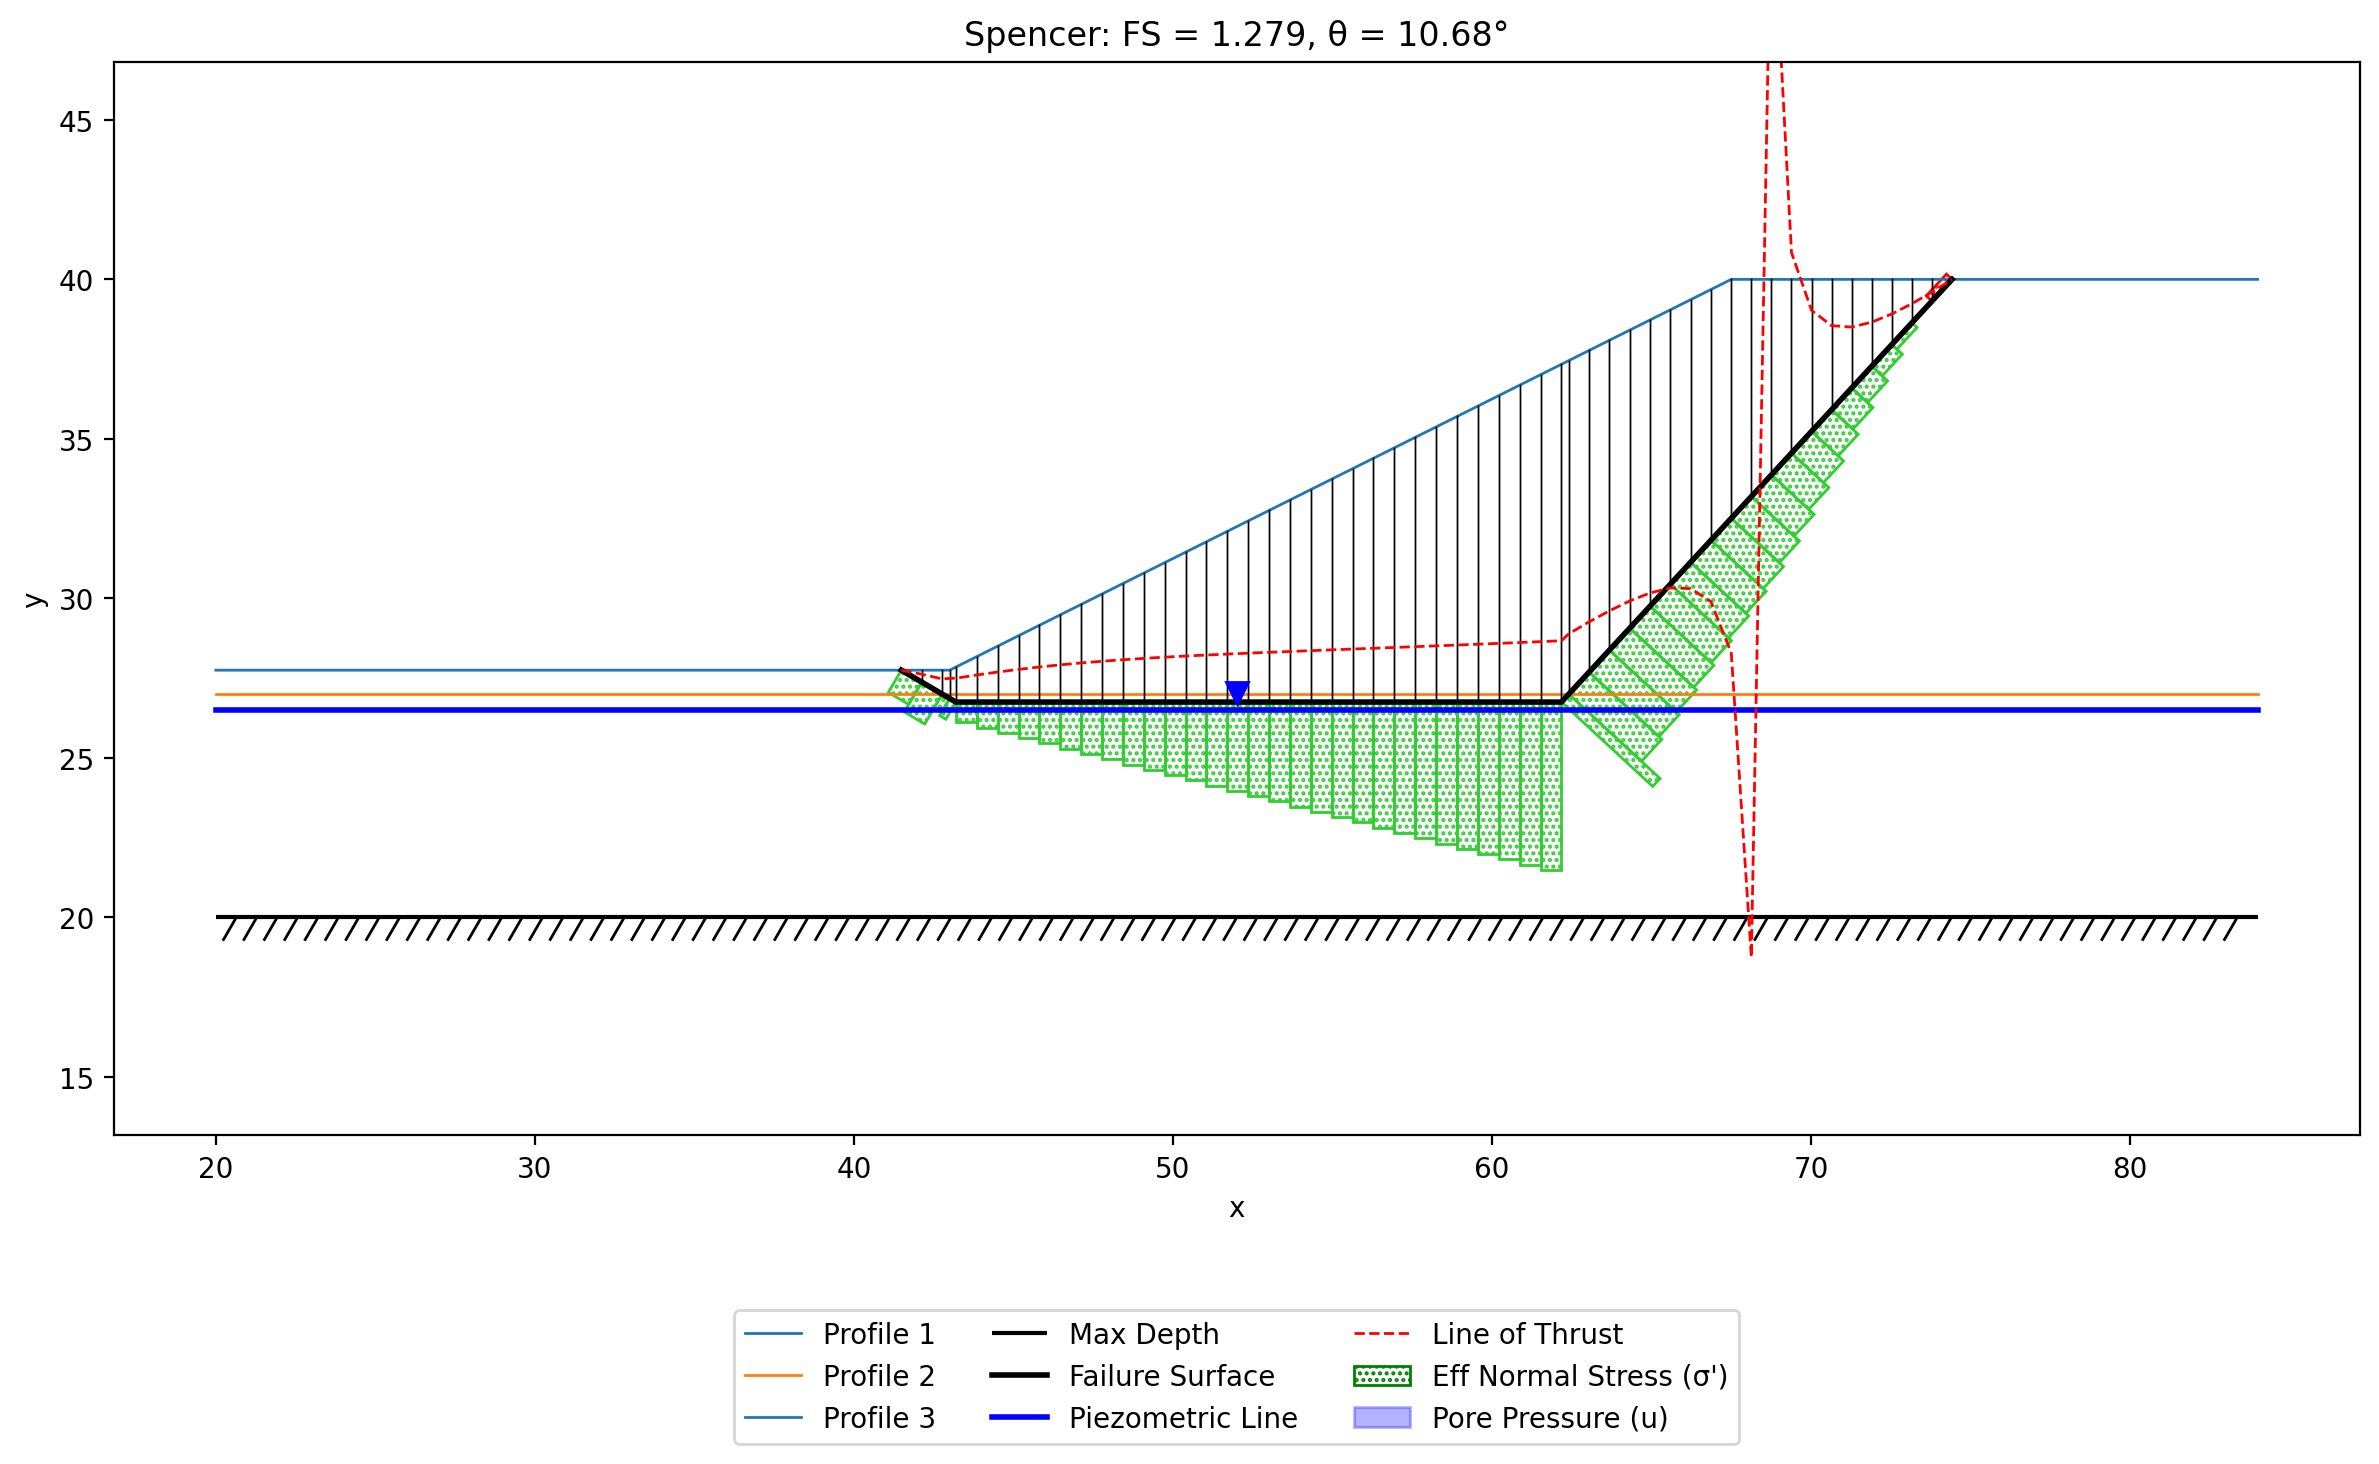
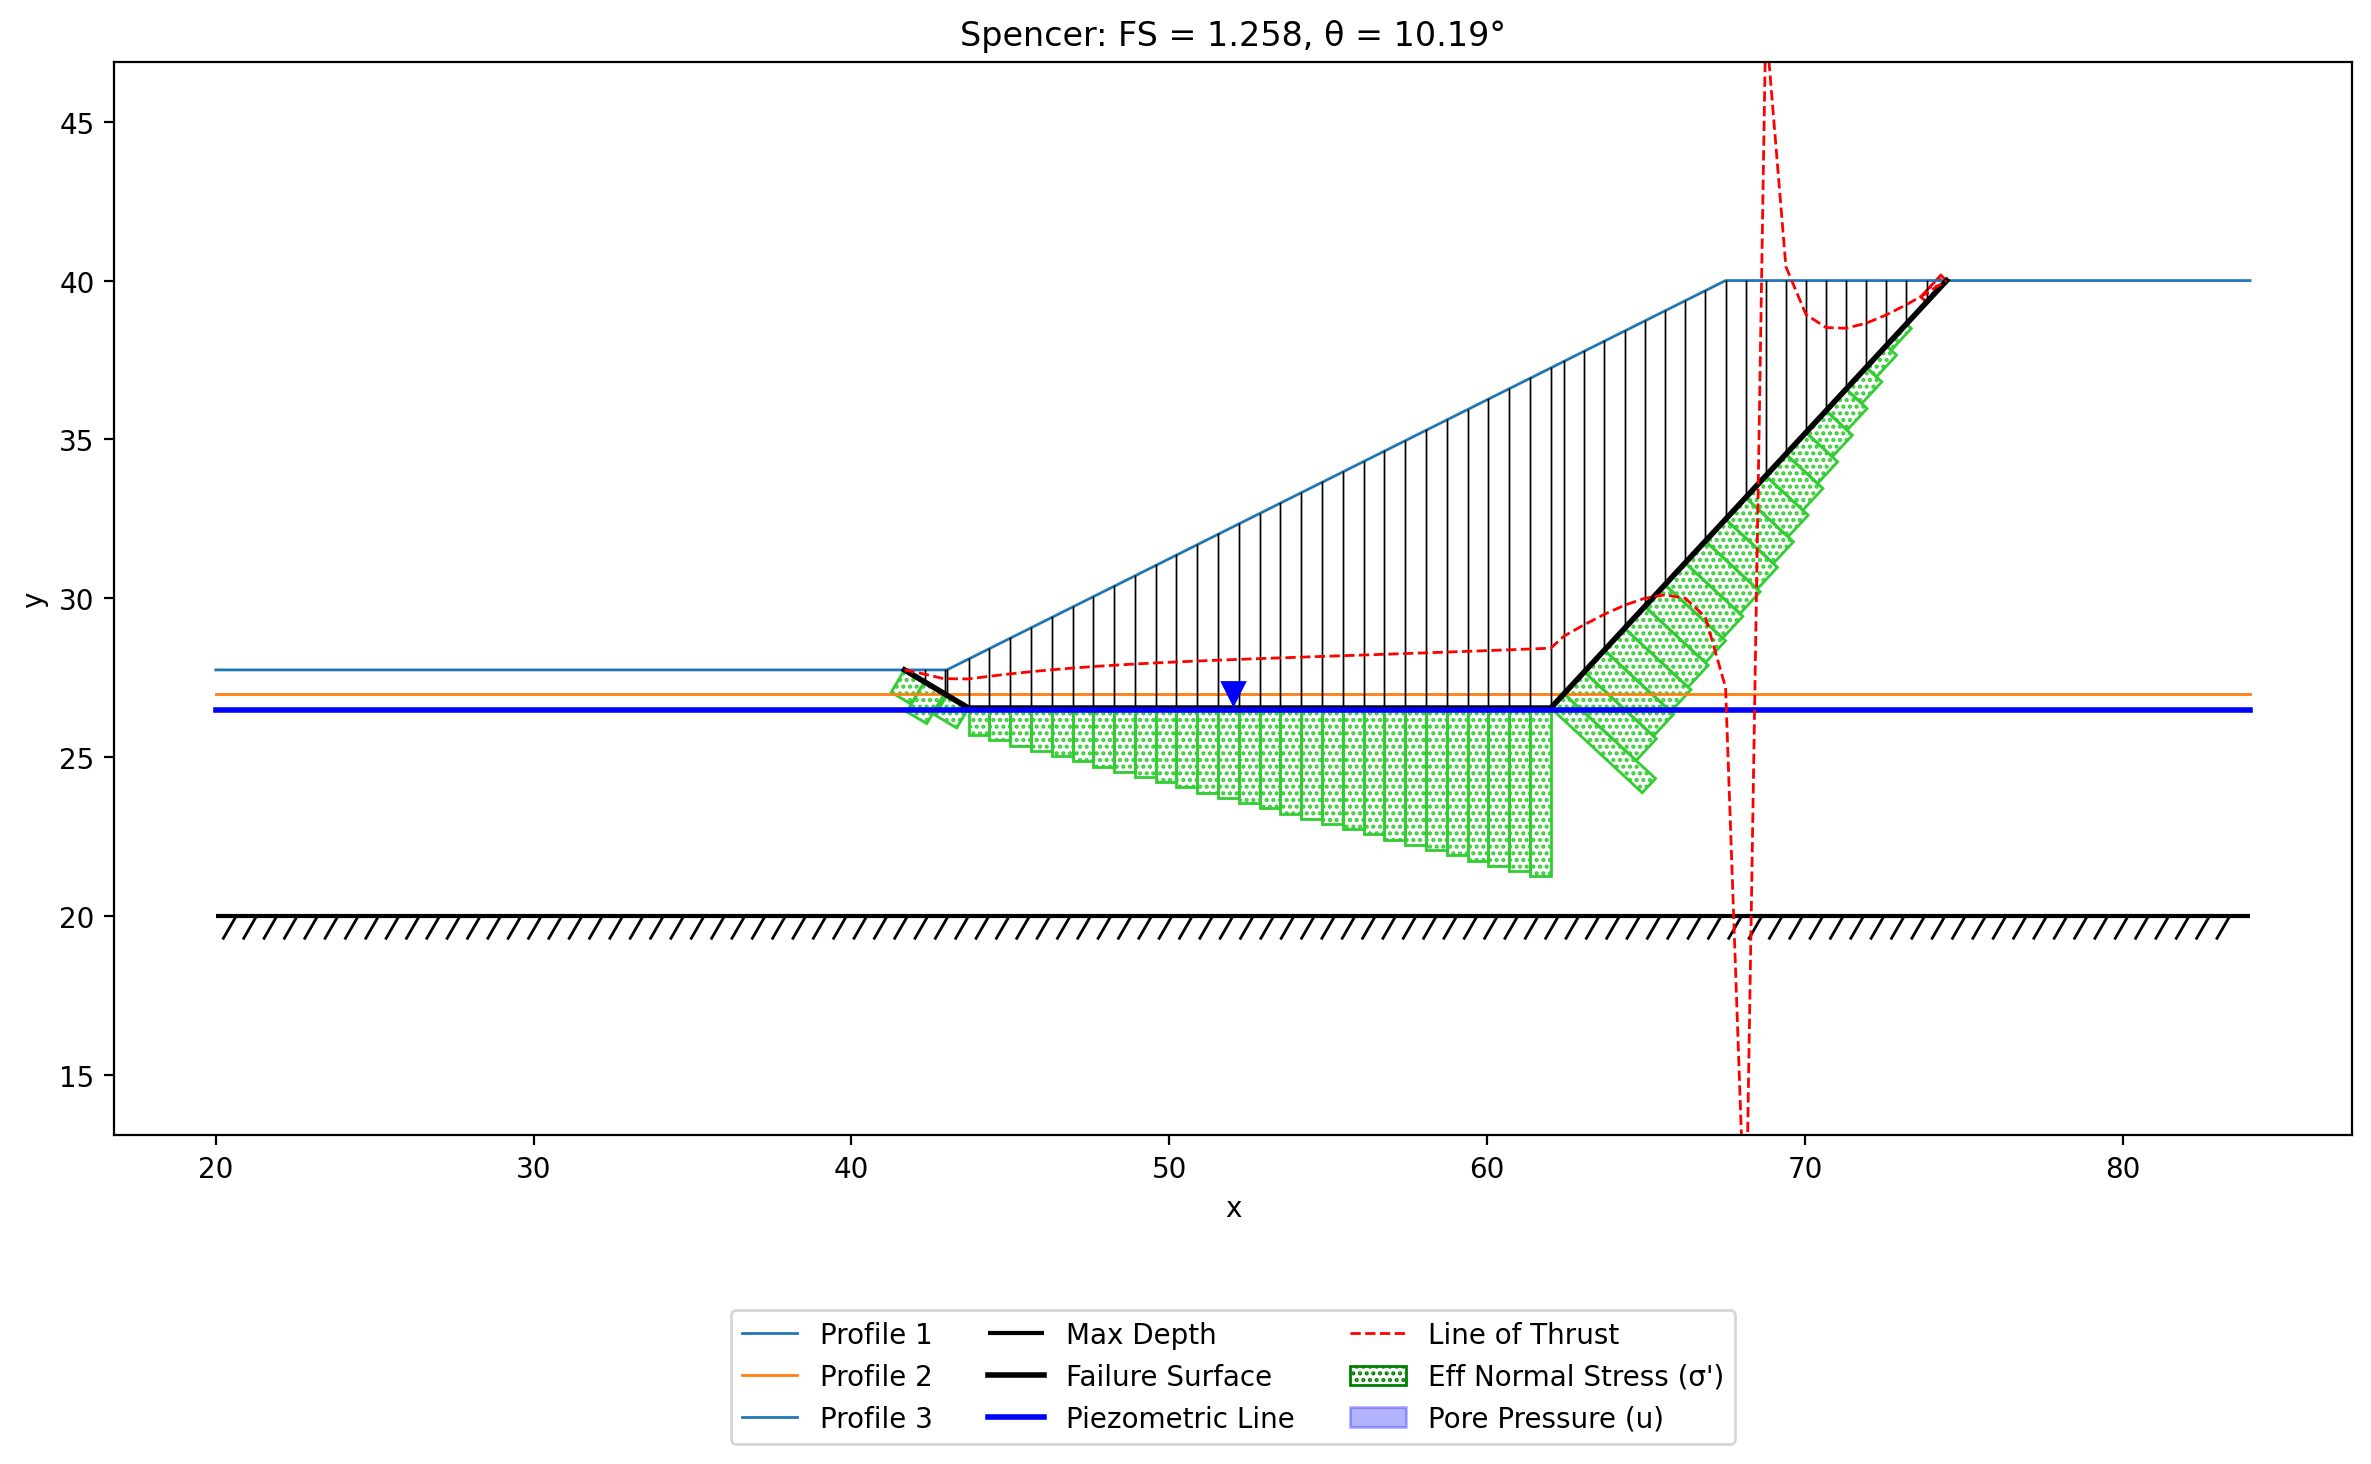
Seed ACADS weak-layer slip at base of layer (FOS 1.279 -> 1.258)
The non-circular search moves 'Horiz' points horizontally only, so the seed
elevation of the two interior points is the sliding plane and is never
optimized. The benchmark seeded them at the layer center (y=26.75), which
biased the factor of safety ~1.5% high. Placing the slip just above the base
of the weak layer (y=26.55) is standard practice for a weak interlayer and
matches the ACADS/SLOPE/W reference.

New non-circular results (ref ~1.26): Spencer 1.258 (was 1.279, now within
0.3% of SLOPE/W's 1.261), Janbu 1.278, Lowe 1.249, Corps 1.336. Updated
build_lem.py, regenerated the input xlsx and figures, refreshed the per-method
tables/tags in samples.md, verification.md, and benchmark-run-plan.md, and
added a y-sweep diagnostic (exp_weak_layer_y.py).

diff --git a/benchmarks/exp_weak_layer_y.py b/benchmarks/exp_weak_layer_y.py
@@ -1,0 +1,52 @@
+"""Experiment: sensitivity of the ACADS weak-layer non-circular FOS to the
+starting elevation (y) of the two 'Horiz' sliding-plane points.
+
+The non-circular search moves 'Horiz' points horizontally only (dy=0), so the
+y we seed them at is locked in for the whole search. The weak layer spans
+y=26.5 (base) to y=27.0 (top). Default seed is y=26.75 (center).
+
+Run from repo root:  PYTHONPATH=. python3 benchmarks/exp_weak_layer_y.py
+"""
+import io
+import contextlib
+
+from xslope.fileio import load_slope_data
+from xslope.search import noncircular_search
+
+FILE = "docs/lem/files/xslope_acads_weak_layer.xlsx"
+METHOD = "spencer"
+
+# Sweep sliding-plane elevation from base of weak layer up to top.
+Y_VALUES = [26.50, 26.55, 26.60, 26.65, 26.70, 26.75, 26.80, 26.90, 27.00]
+
+
+def run_at_y(y_slide):
+    slope_data = load_slope_data(FILE)
+    # Override y for the two interior 'Horiz' points; leave Free endpoints alone.
+    for p in slope_data['non_circ']:
+        if p['Movement'] == 'Horiz':
+            p['Y'] = y_slide
+    buf = io.StringIO()
+    with contextlib.redirect_stdout(buf):
+        fs_cache, converged, _ = noncircular_search(
+            slope_data, METHOD, num_slices=50, diagnostic=False)
+    if fs_cache:
+        res = fs_cache[0].get("solver_result")
+        fs = res.get("FS") if isinstance(res, dict) else None
+        # recover the converged surface x-coords of the horiz points
+        return fs, converged
+    return None, converged
+
+
+def main():
+    print(f"ACADS Weak Layer — {METHOD} FOS vs. starting sliding-plane y")
+    print(f"weak layer: base y=26.5, top y=27.0 ; ref FOS = 1.26\n")
+    print(f"  {'y_start':>8} {'FOS':>8} {'converged':>10}")
+    for y in Y_VALUES:
+        fs, conv = run_at_y(y)
+        fs_s = f"{fs:.4f}" if fs is not None else "--"
+        print(f"  {y:>8.2f} {fs_s:>8} {str(conv):>10}")
+
+
+if __name__ == "__main__":
+    main()

diff --git a/benchmarks/build_lem.py b/benchmarks/build_lem.py
@@ -64,11 +64,15 @@ def build_acads_weak_layer():
     prof.update(profile_line_cells(3, 1, [(20, 26.5), (84, 26.5)]))   # base of weak layer
     u['profile'] = prof
     u['piezo'] = piezo_cells([(20, 26.5), (84, 26.5)])  # at base of weak layer
-    # Non-circular block: exit at toe bench, slide along weak layer (y~26.75), back scarp to crest
+    # Non-circular block: exit at toe bench, slide along weak layer (y~26.55), back scarp to crest.
+    # The 'Horiz' points are seeded just above the base of the weak layer (base y=26.5,
+    # top y=27.0): the search only moves them horizontally, so this seed elevation is the
+    # sliding plane. Placing the slip near the base of a weak layer is standard practice and
+    # matches the ACADS/SLOPE/W reference (FOS ~1.26); the layer-center seed reads ~1.5% high.
     u['non-circ'] = noncirc_cells([
         (38, 27.75, "Free"),    # exit on bench near toe
-        (44, 26.75, "Horiz"),   # toe-side, in weak layer
-        (66, 26.75, "Horiz"),   # crest-side, in weak layer
+        (44, 26.55, "Horiz"),   # toe-side, near base of weak layer
+        (66, 26.55, "Horiz"),   # crest-side, near base of weak layer
         (75, 40.0, "Free"),     # entry on crest
     ])
     write_cells_to_xlsx(dst, {k: v for k, v in u.items() if v})

diff --git a/docs/lem/samples.md b/docs/lem/samples.md
@@ -642,14 +642,20 @@ Results for the methods applicable to non-circular surfaces:
 
 | Method | XSLOPE FOS | Reference | Diff |
 |---|---|---|---|
-| Spencer | 1.279 | ~1.26 | +1.5% |
-| Corps of Engineers | 1.355 | ~1.26 | +7.6% |
-| Lowe & Karafiath | 1.268 | ~1.26 | +0.6% |
-| Simplified Janbu | 1.297 | ~1.26 | +2.9% |
+| Spencer | 1.258 | ~1.26 | −0.2% |
+| Corps of Engineers | 1.336 | ~1.26 | +6.0% |
+| Lowe & Karafiath | 1.249 | ~1.26 | −0.9% |
+| Simplified Janbu | 1.278 | ~1.26 | +1.4% |
 
-Corps of Engineers reads modestly high here, consistent with ground-parallel
-side-force inclinations on a surface with a steep back scarp (XSLOPE uses the
-standard "Corps #2" convention — see
+The two interior surface points are seeded just above the base of the weak
+layer (base $y=26.5$, top $y=27.0$). Because the non-circular search moves
+``Horiz`` points horizontally only, that seed elevation *is* the sliding plane:
+placing it near the base of a weak interlayer is standard practice and matches
+the reference, whereas seeding it at the layer center biases the factor of
+safety roughly 1.5% high. With the base placement, Spencer lands within 0.3% of
+SLOPE/W's Morgenstern-Price value (1.261). Corps of Engineers reads modestly
+high here, consistent with ground-parallel side-force inclinations on a surface
+with a steep back scarp (XSLOPE uses the standard "Corps #2" convention — see
 [Force Equilibrium Methods](force_eq.md)). This benchmark also appears on the
 [Verification](../verification.md#limit-equilibrium) page.
 
@@ -661,10 +667,10 @@ sec. 2.7; Donald, I.B. & Giam, P. (1989), ACADS.
 
 | OMS | Bishop | Janbu | Corps | Lowe | Spencer |
 |---:|---:|---:|---:|---:|---:|
-| — | — | 1.297 | 1.355 | 1.268 | 1.279 |
+| — | — | 1.278 | 1.336 | 1.249 | 1.258 |
 <!-- /fs-table -->
 
-<!-- test: file=files/xslope_acads_weak_layer.xlsx, type=noncircular_search, num_slices=50, fs_janbu=1.297, fs_corps=1.355, fs_lowe=1.268, fs_spencer=1.279, benchmark=LEM-2 -->
+<!-- test: file=files/xslope_acads_weak_layer.xlsx, type=noncircular_search, num_slices=50, fs_janbu=1.278, fs_corps=1.336, fs_lowe=1.249, fs_spencer=1.258, benchmark=LEM-2 -->
 
 ### 14. Verification: Arai & Tagyo Homogeneous Slope {#verification-arai-tagyo}
 

diff --git a/docs/benchmark-run-plan.md b/docs/benchmark-run-plan.md
@@ -91,10 +91,10 @@ completeness only; they are legacy/educational, not recommended for design.)
 
   | Method | xslope FOS | Reference FOS | Diff (%) |
   |---|---|---|---|
-  | Spencer | 1.279 | ~1.26 | +1.5 |
-  | Corps of Engineers | 1.355 | ~1.26 | +7.6 |
-  | Lowe & Karafiath | 1.268 | ~1.26 | +0.6 |
-  | Simplified Janbu | 1.297 | ~1.26 | +2.9 |
+  | Spencer | 1.258 | ~1.26 | −0.2 |
+  | Corps of Engineers | 1.336 | ~1.26 | +6.0 |
+  | Lowe & Karafiath | 1.249 | ~1.26 | −0.9 |
+  | Simplified Janbu | 1.278 | ~1.26 | +1.4 |
 
   *Corps of Engineers uses **variant 2** (side forces parallel to the ground
   surface at each slice top — the standard "Corps of Engineers #2" convention;
@@ -103,7 +103,7 @@ completeness only; they are legacy/educational, not recommended for design.)
   search dive to a surface with a near-vertical toe segment where the fixed
   inclination collapses the force balance (Corps FS → 1.05 while Spencer rates
   that same surface 1.53). Variant 2 is xslope's default for this reason. Corps
-  reads slightly high here (+7.6%), consistent with ground-parallel side forces
+  reads slightly high here (+6.0%), consistent with ground-parallel side forces
   on this geometry.*
 
 ### LEM-2b — Arai & Tagyo (1985) homogeneous slope (circular)

diff --git a/docs/verification.md b/docs/verification.md
@@ -51,11 +51,14 @@ critical surface runs along the weak layer. ACADS accepted band ≈ 1.26.
 
 | Method | XSLOPE FOS | Reference | Diff |
 |---|---|---|---|
-| Spencer | 1.279 | ~1.26 | +1.5% |
-| Corps of Engineers | 1.355 | ~1.26 | +7.6% |
-| Lowe & Karafiath | 1.268 | ~1.26 | +0.6% |
-| Simplified Janbu | 1.297 | ~1.26 | +2.9% |
+| Spencer | 1.258 | ~1.26 | −0.2% |
+| Corps of Engineers | 1.336 | ~1.26 | +6.0% |
+| Lowe & Karafiath | 1.249 | ~1.26 | −0.9% |
+| Simplified Janbu | 1.278 | ~1.26 | +1.4% |
 
+The non-circular slip is seeded just above the base of the weak layer (the
+standard placement for a weak interlayer — see the sample-problem write-up);
+Spencer then lands within 0.3% of SLOPE/W's Morgenstern-Price value (1.261).
 Corps of Engineers reads modestly high here, consistent with ground-parallel
 side-force inclinations on this geometry (XSLOPE uses the standard "Corps #2"
 convention — see [Force Equilibrium Methods](lem/force_eq.md)).
